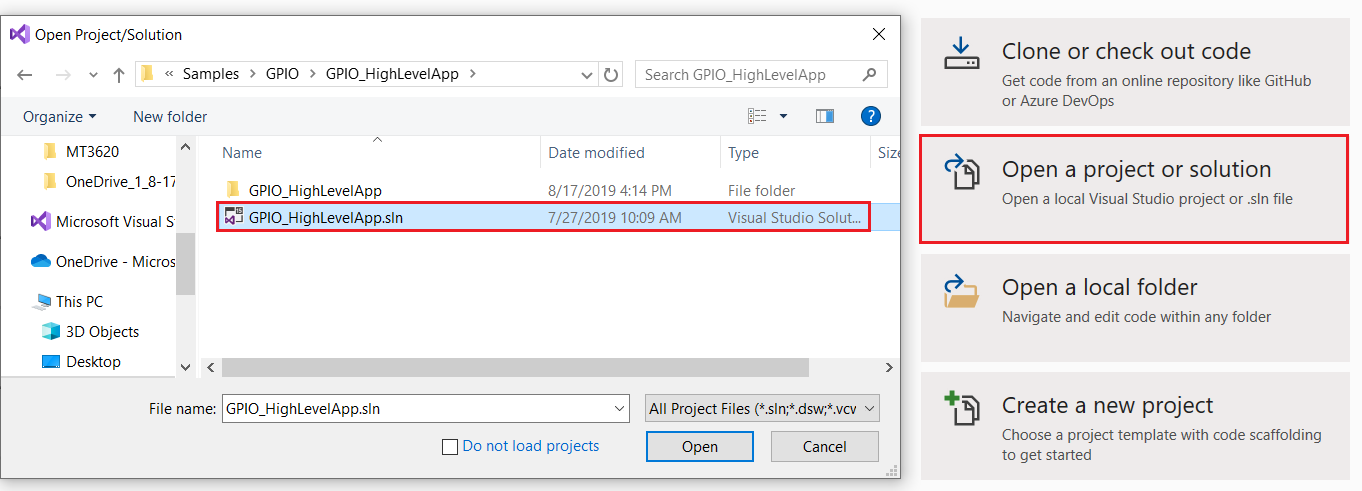
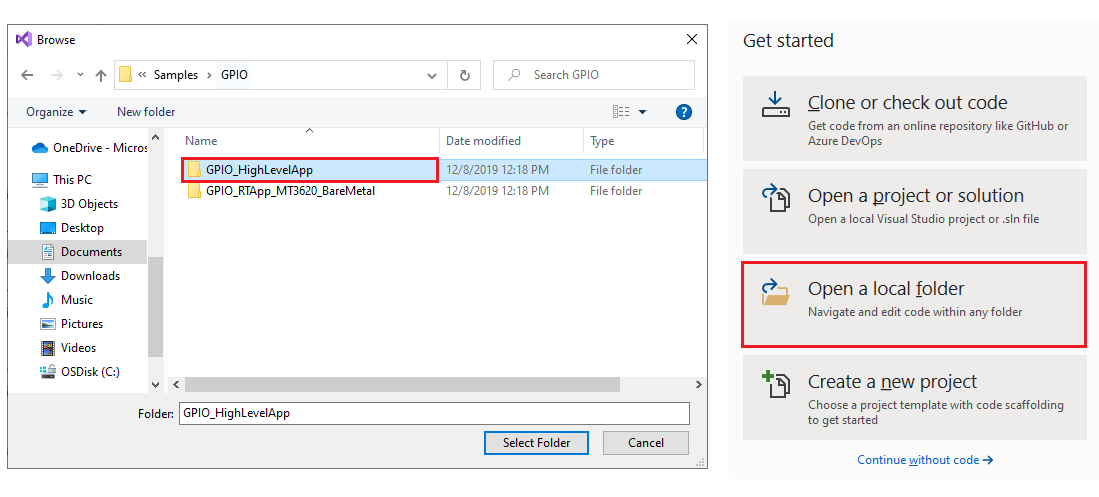
update REAMDE.md and Lab-1.md

Changed region(s): [[0.0, 0.0, 0.99, 1.0], [0.0, 0.1222, 0.0309, 0.1833]]

diff --git a/Lab-1.md b/Lab-1.md
@@ -12,19 +12,29 @@
 
 1. Enable device debug and disable OTA in Azure Sphere utility
    
-   `azsphere device prep-debug`
+   `azsphere device enable-development`
 
-2. Clone Azure Sphere Samples repo
+2. Clone Official Azure Sphere Samples repo
 
     `git clone https://github.com/Azure/azure-sphere-samples`
 
-3. Open a project or solution in Visual Studio and navigate to the folder of *.\azure-sphere-samples\Samples\GPIO\GPIO_HighLevelApp*, open GPIO_HighLevelApp.sln and press **F5** to build and load the application onto the device for debugging.
+3. Open a local folder in Visual Studio and navigate to the folder of *.\azure-sphere-samples\Samples\GPIO\GPIO_HighLevelApp*, click **Select Folder** to open the CMake project.
    
- ![](images/open-project.png)
-   
-4. LED1 start to blink after Application is loaded. Press **Button A** will change the blinking rate. Both LED1 and Button A are connected to GPIO pin and controlled by the high-level Application.
+    ![](images/open-project.png)
 
-5. Select Line 74 and press **F9** to set a breakpoint on function *GPIO_SetValue*, you will see the program is halt and stop on this line. Continue with **F5** and now you can control the ON/OFF state of LED.
+4. By default, official sample code are based on MT3620_RDB board. Since we're using AVNET_MT3620_SK for this bootcamp, we need to change the [hardware definition file](https://docs.microsoft.com/en-us/azure-sphere/app-development/manage-hardware-dependencies) for our project. Double click CMakeSettings.json file in Solution Explorer, a 'CMake Settings' page will pop, click **Edit JSON** to edit it. 
+    
+    ![](images/cmakesetting.png)
+
+    Change the value of AzureSphereTargetHardwareDefinitionDirectory to avnet_mt3620_sk and save (CTRL+S). A CMake cache generation process will start and complete soon with `'1> CMake generation finished.'` message display at the end. 
+
+5. Select **GDB Debugger (HLCore)** as debug target, then press **F5** to start build and load target application onto device for debugging. 
+   
+   ![](images/HLcoreDebug.png)
+
+6. LED5 start to blink after Application is loaded. Press **Button A** will change the blinking rate. Both LED5 and Button A are connected to GPIO pin and controlled by the high-level Application.
+
+7. Select Line 82 and press **F9** to set a breakpoint on function *GPIO_SetValue*, you will see the program is halt and stop on this line. Continue with **F5** and now you can control the ON/OFF state of LED.
 
  ![](images/debug.png)
 

diff --git a/README.md b/README.md
@@ -4,18 +4,27 @@ This repo is built for Azure Sphere Bootcamp Hands-on day. It provides all requi
 
 # Pre-Lab prerequisites
 
-Follow [Install Azure Sphere](https://docs.microsoft.com/en-us/azure-sphere/install/overview) section to complete all neccessary steps before start. 
+Follow [Get started with a development kit](https://docs.microsoft.com/en-us/azure-sphere/install/overview) to complete all neccessary steps before start.
+
+> All hands-on and setup are based on Windows and Visual Studio. Linux and VS Code are not used for this bootcamp
 
 Quick check list:
 - FTDI driver is installed and three COMx ports are present in Device Manager 
-- Up to date Visual Studio and Azure Sphere SDK are installed
-- Has registered a Azure account and a free subscription or pay-as-you-go subscription
-- Has logged in Azure Sphere command line utility by `azsphere login`
+- Up to date Visual Studio and Azure Sphere SDK Preview for **Visual Studio** are installed
+- Has a Microsoft account
+- Has a Azure account and a free subscription or pay-as-you-go subscription
+- Has logged in Azure Sphere command line utility by `azsphere login` or `azsphere login --newuser <email>` when you're not registered/login before.
 - Create a Azure Sphere tenant by `azsphere tenant create -n <tenant name>` if there is no tenant in your orgnization.
 - Has selected Azure Sphere tenant by `azsphere tenant select -i <tenant id>`
 - (New device ONLY) Device is claimed to user's tenant by `azsphere device claim`
 - Device is recovered by `azsphere device recover` command to have a knowning good Azure Sphere OS.
 - [Git](https://git-scm.com/download/win) is installed and added to PATH.
+
+# Azure Sphere MT3620 Starter Kit
+
+This lab uses Azure Sphere MT3620 Starter Kit from AVNET. Detaled information about this hardware can be found in this [community](https://www.element14.com/community/community/designcenter/azure-sphere-starter-kits)
+
+![](images/AzureSphereKit_front.png)
 
 # Labs
 
